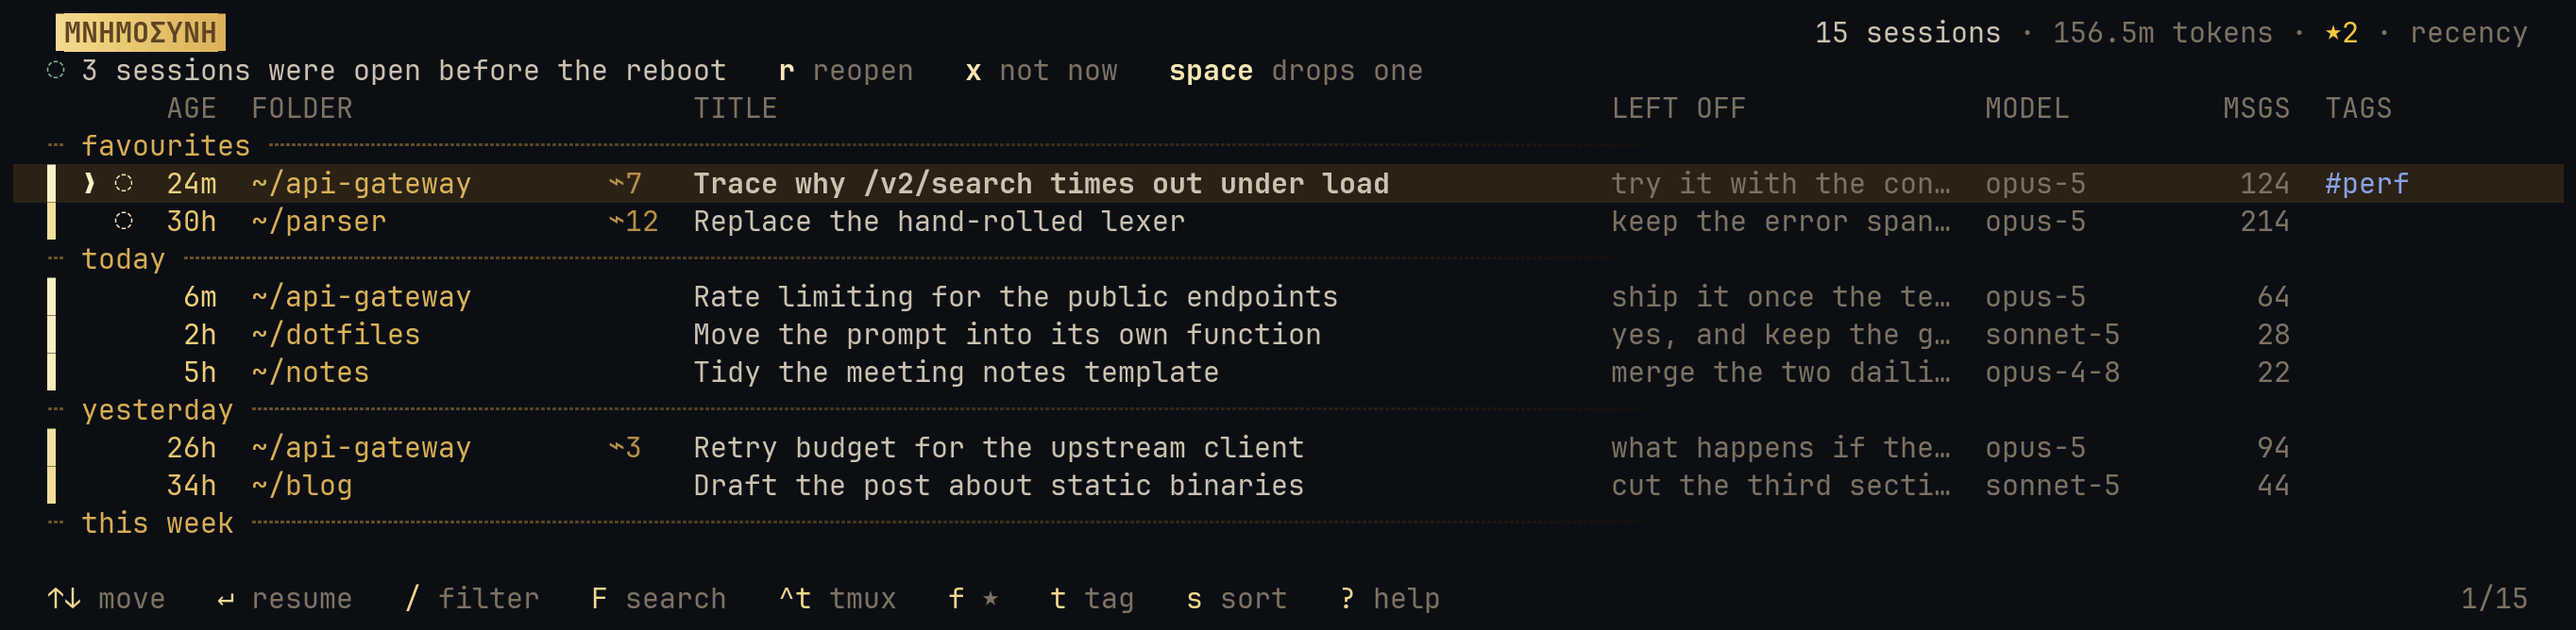
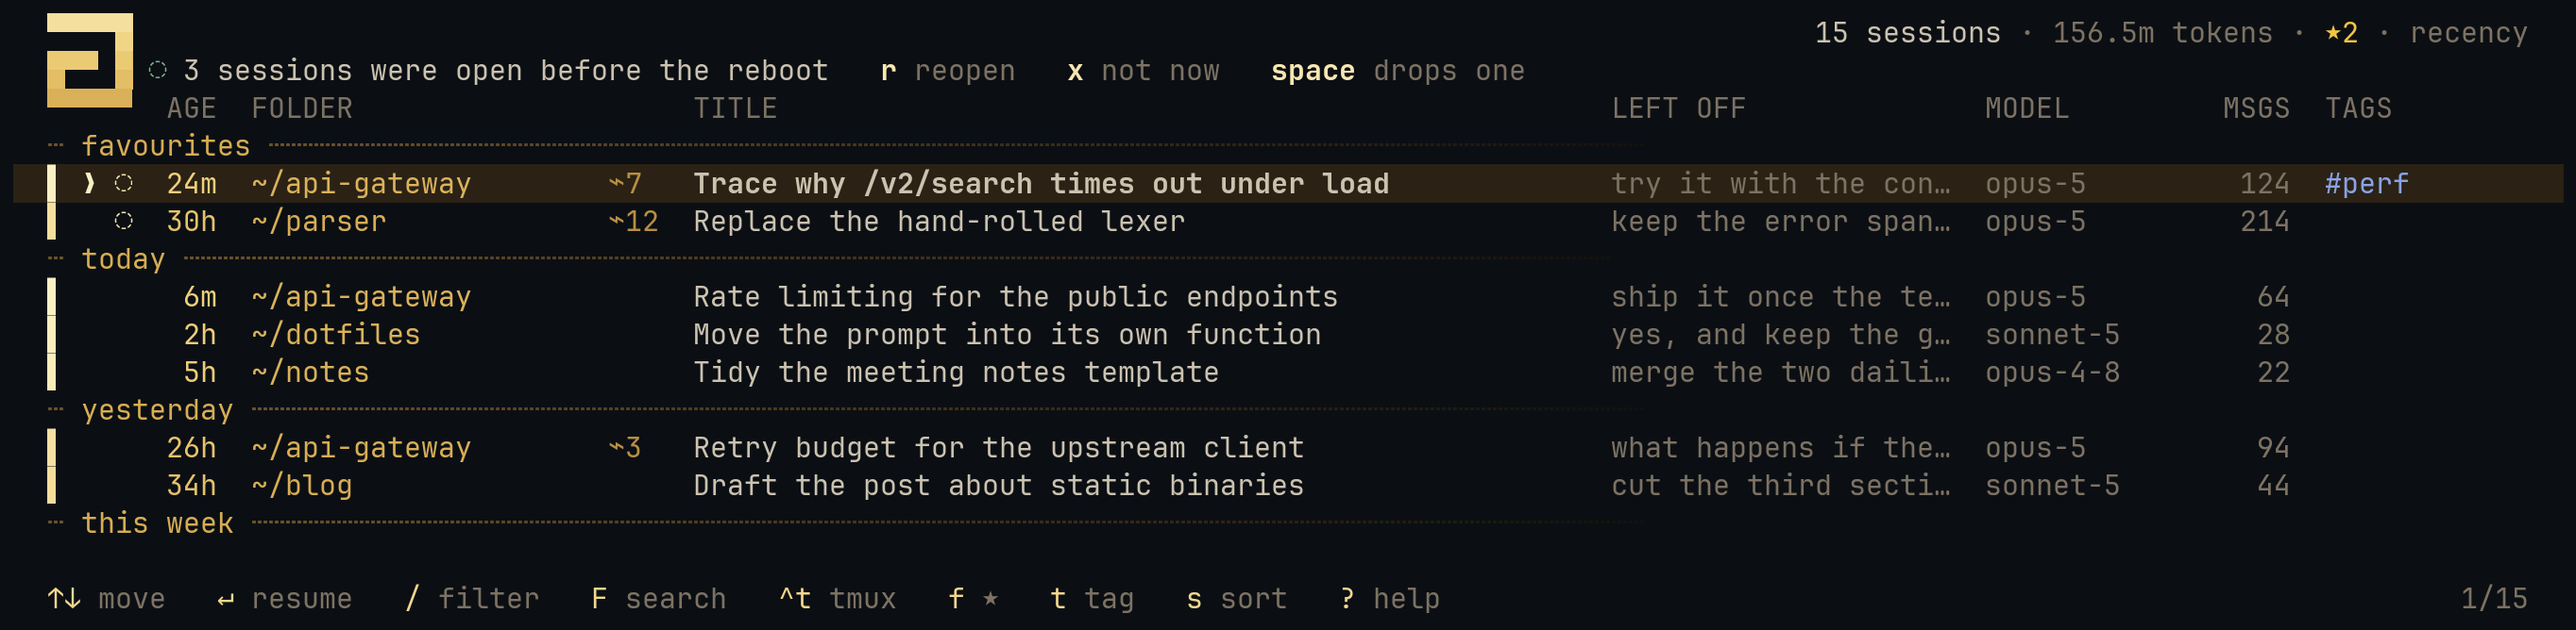
The header carries the mark, not the name
The header's left end was ΜΝΗΜΟΣΥΝΗ cut into a chip of gold: the name
spelled out, where the opening screen and the README now show a symbol.
It is the mark in miniature now, a spiral five cells a side, the smallest
that still turns in on itself.

A header is one row and a spiral needs three, so it sits in the top left
corner across the header, the blank line under it and the column
headings, which start to its right anyway. The reopen offer on that blank
line starts past it. A terminal short enough that the layout gives one of
those rows no height goes without, rather than drawing part of a mark on
the list; a test holds it to all or nothing.

The README says so, and the screenshots with a header in them are
retaken.

Changed region(s): [[0.0, 0.0, 0.592, 0.1796]]

diff --git a/src/ui.rs b/src/ui.rs
@@ -7,8 +7,8 @@
 //! * An edge of gold runs down the left, coloured on the ramp by how old each
 //!   session is — fresh leaf for today, tarnished bronze for last year. Age
 //!   becomes something you see rather than read.
-//! * The name in the header is cut into a chip of the same gold the
-//!   opening screen draws its mark in.
+//! * The header carries the opening screen's mark in miniature, in the top
+//!   left corner, beside the column headings.
 //! * Beside the gold, three colours that each mean one thing: lapis for your
 //!   own marks, cypress for anything alive, cinnabar for anything lost.
 //! * Rules are dotted and fade out rather than cross the screen. There are
@@ -80,6 +80,8 @@ impl Theme {
 }
 
 const MARGIN: usize = 2;
+/// Columns the corner mark takes, and the one between it and what follows.
+const CORNER: usize = 5 + 1;
 /// margin + gutter + gap + cursor + gap + marker + gap
 const PREFIX: usize = MARGIN + 1 + 1 + 1 + 1 + 1 + 1;
 
@@ -266,6 +268,13 @@ pub fn draw(f: &mut Frame, app: &mut App) {
 
     let cols = Cols::new(area.width as usize, app.has_wsx());
 
+    // The mark in miniature: three rows down the corner, across the header,
+    // the line under it and the column headings, which start to its right.
+    // Only where all three rows are there to hold it; a terminal a few
+    // lines high gives some of them no height, and the mark would land on
+    // whatever came next.
+    let corner = rows[..3].iter().all(|r| r.height == 1) && area.width as usize > PREFIX;
+
     draw_wordmark(f, app, rows[0]);
     // The blank line under the wordmark is where the reopen offer goes, so
     // an offer never pushes the list around: it fills air that was there
@@ -277,9 +286,20 @@ pub fn draw(f: &mut Frame, app: &mut App) {
     // on top of another: with the offer up, clicking a column heading hit
     // the Reopen button nobody could see, and opened a window for each.
     if !app.reopen.is_empty() && rows[1].height > 0 {
-        draw_reopen(f, app, rows[1]);
+        let indent = MARGIN + if corner { CORNER } else { 0 };
+        draw_reopen(f, app, rows[1], indent);
     }
     draw_colheads(f, app, &cols, rows[2]);
+    if corner {
+        let mark = art::corner();
+        let at = Rect {
+            x: area.x + MARGIN as u16,
+            y: rows[0].y,
+            width: mark.width as u16,
+            height: mark.height() as u16,
+        };
+        f.render_widget(Paragraph::new(mark.lines(&art::Light::STILL)), at);
+    }
     draw_list(f, app, &cols, rows[3]);
     if rail > 0 {
         draw_rail(f, app, rows[4], cols.preview == 0);
@@ -476,7 +496,9 @@ fn draw_viewer(f: &mut Frame, app: &mut App, area: Rect) {
 /// `None` for a hint that is there to be read rather than pressed.
 type Button = (&'static str, &'static str, Option<Action>);
 
-fn draw_reopen(f: &mut Frame, app: &mut App, area: Rect) {
+/// `indent` is where the line starts: past the corner mark, when it is
+/// drawn beside it.
+fn draw_reopen(f: &mut Frame, app: &mut App, area: Rect, indent: usize) {
     let n = app.reopen.len();
     let what = if n == 1 {
         "1 session was".to_string()
@@ -519,7 +541,7 @@ fn draw_reopen(f: &mut Frame, app: &mut App, area: Rect) {
     ];
 
     let room = area.width as usize;
-    let fixed = MARGIN + 2 + 3; // margin, marker, the gap before the buttons
+    let fixed = indent + 2 + 3; // indent, marker, the gap before the buttons
     let width_of = |b: &[Button]| -> usize { b.iter().map(|(k, l, _)| width(k) + width(l)).sum() };
 
     let mut chosen: Option<(String, &[Button])> = None;
@@ -557,14 +579,14 @@ fn draw_reopen(f: &mut Frame, app: &mut App, area: Rect) {
     let dim = Style::default().fg(th().chrome);
 
     let mut spans = vec![
-        Span::raw(" ".repeat(MARGIN)),
+        Span::raw(" ".repeat(indent)),
         // Hollow, not solid: `●` means running *now* everywhere else in this
         // interface, and these are exactly the sessions that are not.
         Span::styled("◌ ", Style::default().fg(th().live)),
         Span::styled(head.clone(), Style::default().fg(th().text)),
         Span::raw("   "),
     ];
-    let mut x = area.x + MARGIN as u16 + 2 + width(&head) as u16 + 3;
+    let mut x = area.x + indent as u16 + 2 + width(&head) as u16 + 3;
 
     app.hits.banner_y = Some(area.y);
     for (k, label, action) in buttons {
@@ -585,26 +607,6 @@ fn draw_reopen(f: &mut Frame, app: &mut App, area: Rect) {
     f.render_widget(Paragraph::new(Line::from(spans)), area);
 }
 
-/// The name, cut dark into a chip of the gold the opening screen's mark is
-/// drawn in, lit from the left.
-fn chip() -> Vec<Span<'static>> {
-    let letters: Vec<char> = art::GREEK.chars().collect();
-    let n = letters.len() + 1;
-    let gold = |i: usize| rgb(art::ramp(0.86 - 0.22 * i as f64 / n as f64));
-    let mut spans = vec![Span::styled("▐", Style::default().fg(gold(0)))];
-    for (i, ch) in letters.iter().enumerate() {
-        spans.push(Span::styled(
-            ch.to_string(),
-            Style::default()
-                .fg(rgb(art::ramp(0.2)))
-                .bg(gold(i + 1))
-                .add_modifier(Modifier::BOLD),
-        ));
-    }
-    spans.push(Span::styled("▌", Style::default().fg(gold(n))));
-    spans
-}
-
 /// Who said a turn, and in what: your words in your own ink, Claude's in
 /// the gold of the record.
 fn speaker(role: &str) -> (&'static str, Color) {
@@ -615,10 +617,10 @@ fn speaker(role: &str) -> (&'static str, Color) {
     }
 }
 
-/// The name, and on the right what the list is showing.
+/// On the right, what the list is showing. The left is kept clear for the
+/// corner mark, which is drawn over it.
 fn draw_wordmark(f: &mut Frame, app: &App, area: Rect) {
-    let mut spans = vec![Span::raw(" ".repeat(MARGIN))];
-    spans.extend(chip());
+    let mut spans = vec![Span::raw(" ".repeat(MARGIN + CORNER))];
 
     // The right side is built as separate pieces so it can be thinned rather
     // than truncated: a narrow terminal drops whole facts, worst-first,
@@ -1927,32 +1929,78 @@ mod render_tests {
         }
     }
 
+    /// The corner mark as a terminal draws it, a row at a time, with the
+    /// column after it that keeps everything else off it.
+    fn mark_rows() -> Vec<String> {
+        art::corner()
+            .lines(&art::Light::STILL)
+            .iter()
+            .map(|l| {
+                l.spans
+                    .iter()
+                    .map(|s| s.content.as_ref())
+                    .collect::<String>()
+                    + " "
+            })
+            .collect()
+    }
+
+    fn corner_of(rows: &[String]) -> Vec<String> {
+        rows.iter()
+            .take(3)
+            .map(|r| r.chars().skip(MARGIN).take(CORNER).collect())
+            .collect()
+    }
+
     #[test]
-    fn the_wordmark_never_collides_with_the_counts() {
+    fn the_mark_sits_in_the_corner_and_nothing_runs_into_it() {
         // The header used to read "mnemosyne331 sessions" once the token
-        // total made the right-hand side too long to fit.
+        // total made the right-hand side too long to fit; the counts must
+        // keep clear of the mark the same way.
         let mut a = app();
         for (w, h) in sizes() {
-            if h < 4 {
+            if h < 10 {
                 continue;
             }
             let rows = render(&mut a, w, h);
-            let top = &rows[0];
-            let name = format!("{}▌", art::GREEK);
-            // Wherever there is a header at all it has room for the name, so
-            // the name must be there: a test that only looks when it finds
-            // it passes on a header that lost it. A terminal a few rows high
-            // gives the header no row.
-            let Some(i) = top.find(&name) else {
-                assert!(h < 10, "{w}x{h}: no name in the header: {top:?}");
-                continue;
-            };
-            let after = &top[i + name.len()..];
-            assert!(
-                after.is_empty() || after.starts_with(' '),
-                "{w}x{h}: header ran together: {top:?}"
-            );
+            assert_eq!(corner_of(&rows), mark_rows(), "{w}x{h}: {:#?}", &rows[..3]);
         }
+    }
+
+    #[test]
+    fn the_mark_is_whole_or_not_there() {
+        // Three rows or none, and those three the header, the line under
+        // it and the column headings: half a mark in the corner of a
+        // four-line terminal would sit on the list.
+        let mut a = app();
+        for (w, h) in sizes() {
+            let rows = render(&mut a, w, h);
+            if rows.len() < 3 {
+                continue;
+            }
+            let corner = corner_of(&rows);
+            if corner == mark_rows() {
+                assert!(rows[2].contains("AGE"), "{w}x{h}: {rows:#?}");
+            } else {
+                assert!(
+                    corner.iter().all(|r| !r.contains(['▀', '▄', '█'])),
+                    "{w}x{h}: part of a mark: {rows:#?}"
+                );
+            }
+        }
+    }
+
+    #[test]
+    fn the_offer_starts_past_the_mark() {
+        let mut a = app();
+        offer(&mut a, 2);
+        let rows = render(&mut a, 120, 30);
+        assert_eq!(corner_of(&rows)[1], mark_rows()[1]);
+        assert!(
+            rows[1].chars().nth(MARGIN + CORNER) == Some('◌'),
+            "{:?}",
+            rows[1]
+        );
     }
 
     #[test]
@@ -2044,8 +2092,10 @@ mod render_tests {
         let mut a = app();
         let rows = render(&mut a, 120, 30);
         assert!(!rows.iter().any(|r| r.contains("before the reboot")));
+        // past the corner mark, which takes the start of it
+        let rest: String = rows[1].chars().skip(MARGIN + CORNER).collect();
         assert!(
-            rows[1].trim().is_empty(),
+            rest.trim().is_empty(),
             "the line under the wordmark should stay empty: {:?}",
             rows[1]
         );

diff --git a/src/art.rs b/src/art.rs
@@ -27,9 +27,6 @@
 use ratatui::style::{Color, Style};
 use ratatui::text::{Line, Span};
 
-/// The name as the header spells it.
-pub const GREEK: &str = "ΜΝΗΜΟΣΥΝΗ";
-
 /// A square spiral `n` cells a side: its cells in order from the outer end
 /// to the centre, a cell of gap between each turn and the next. `n` is one
 /// more than a multiple of four, which is what lands it on the centre.
@@ -216,6 +213,12 @@ impl Light {
 /// a cell.
 const SIZES: [(usize, usize); 3] = [(13, 2), (13, 1), (9, 1)];
 
+/// The mark in miniature, for the corner of the list: a spiral five cells a
+/// side, the smallest that still turns in on itself, three rows tall.
+pub fn corner() -> Mark {
+    Mark::new(5, 1)
+}
+
 /// The largest mark that fits in `width` columns and `height` rows, or None
 /// when even the smallest would not.
 pub fn mark_for(width: usize, height: usize) -> Option<Mark> {
@@ -381,7 +384,7 @@ mod tests {
 
     #[test]
     fn the_spiral_is_one_path_that_never_touches_itself() {
-        for n in [9, 13] {
+        for n in [5, 9, 13] {
             let path = spiral(n);
             let set: std::collections::HashSet<_> = path.iter().copied().collect();
             assert_eq!(set.len(), path.len(), "{n}: a cell twice");

diff --git a/README.md b/README.md
@@ -50,9 +50,10 @@ before the far side rather than running a hard line across the terminal.
 They appear only when sorting by recency, where time order makes them mean
 something.
 
-The name in the header is a **chip of gold** with ΜΝΗΜΟΣΥΝΗ cut into it, in
-the gold of the [opening screen](#the-opening-animation)'s mark. No borders
-anywhere; structure comes from alignment.
+The header carries the [opening screen](#the-opening-animation)'s **mark in
+miniature**, a spiral five cells across in the top left corner, three rows
+down beside the column headings. It is a symbol, not the name spelled out.
+No borders anywhere; structure comes from alignment.
 
 At a wide terminal a title column alone leaves a sixty-column void in every
 row, so the leftover space becomes a **LEFT OFF** column carrying the last
@@ -741,7 +742,7 @@ terminals that `s` will sort by, and each session's own count sits in the
 rail:
 
 ```
-  ▐ΜΝΗΜΟΣΥΝΗ▌                      331 sessions · 90.72b tokens · ●2 live · recency
+                                   331 sessions · 90.72b tokens · ●2 live · recency
 ```
 
 The header total is deliberately **not** filtered — it is a property of the
